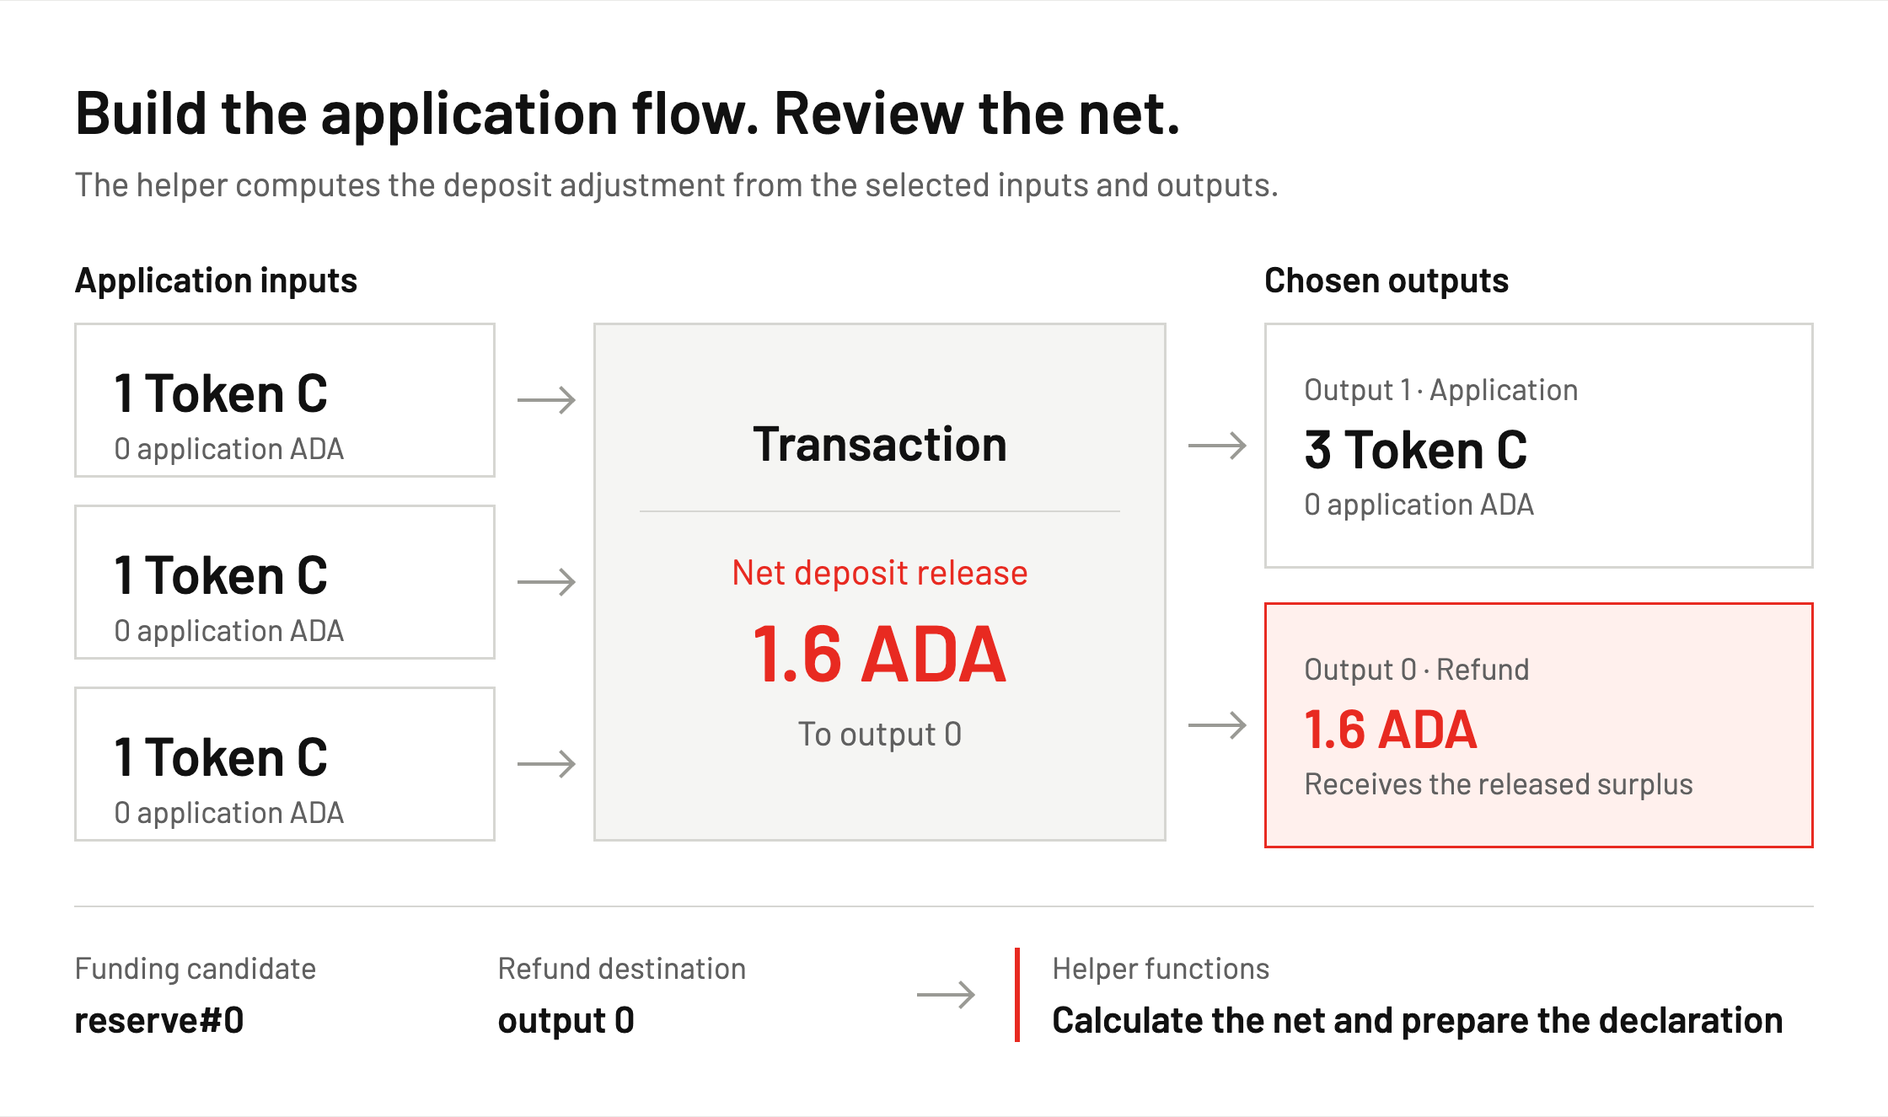
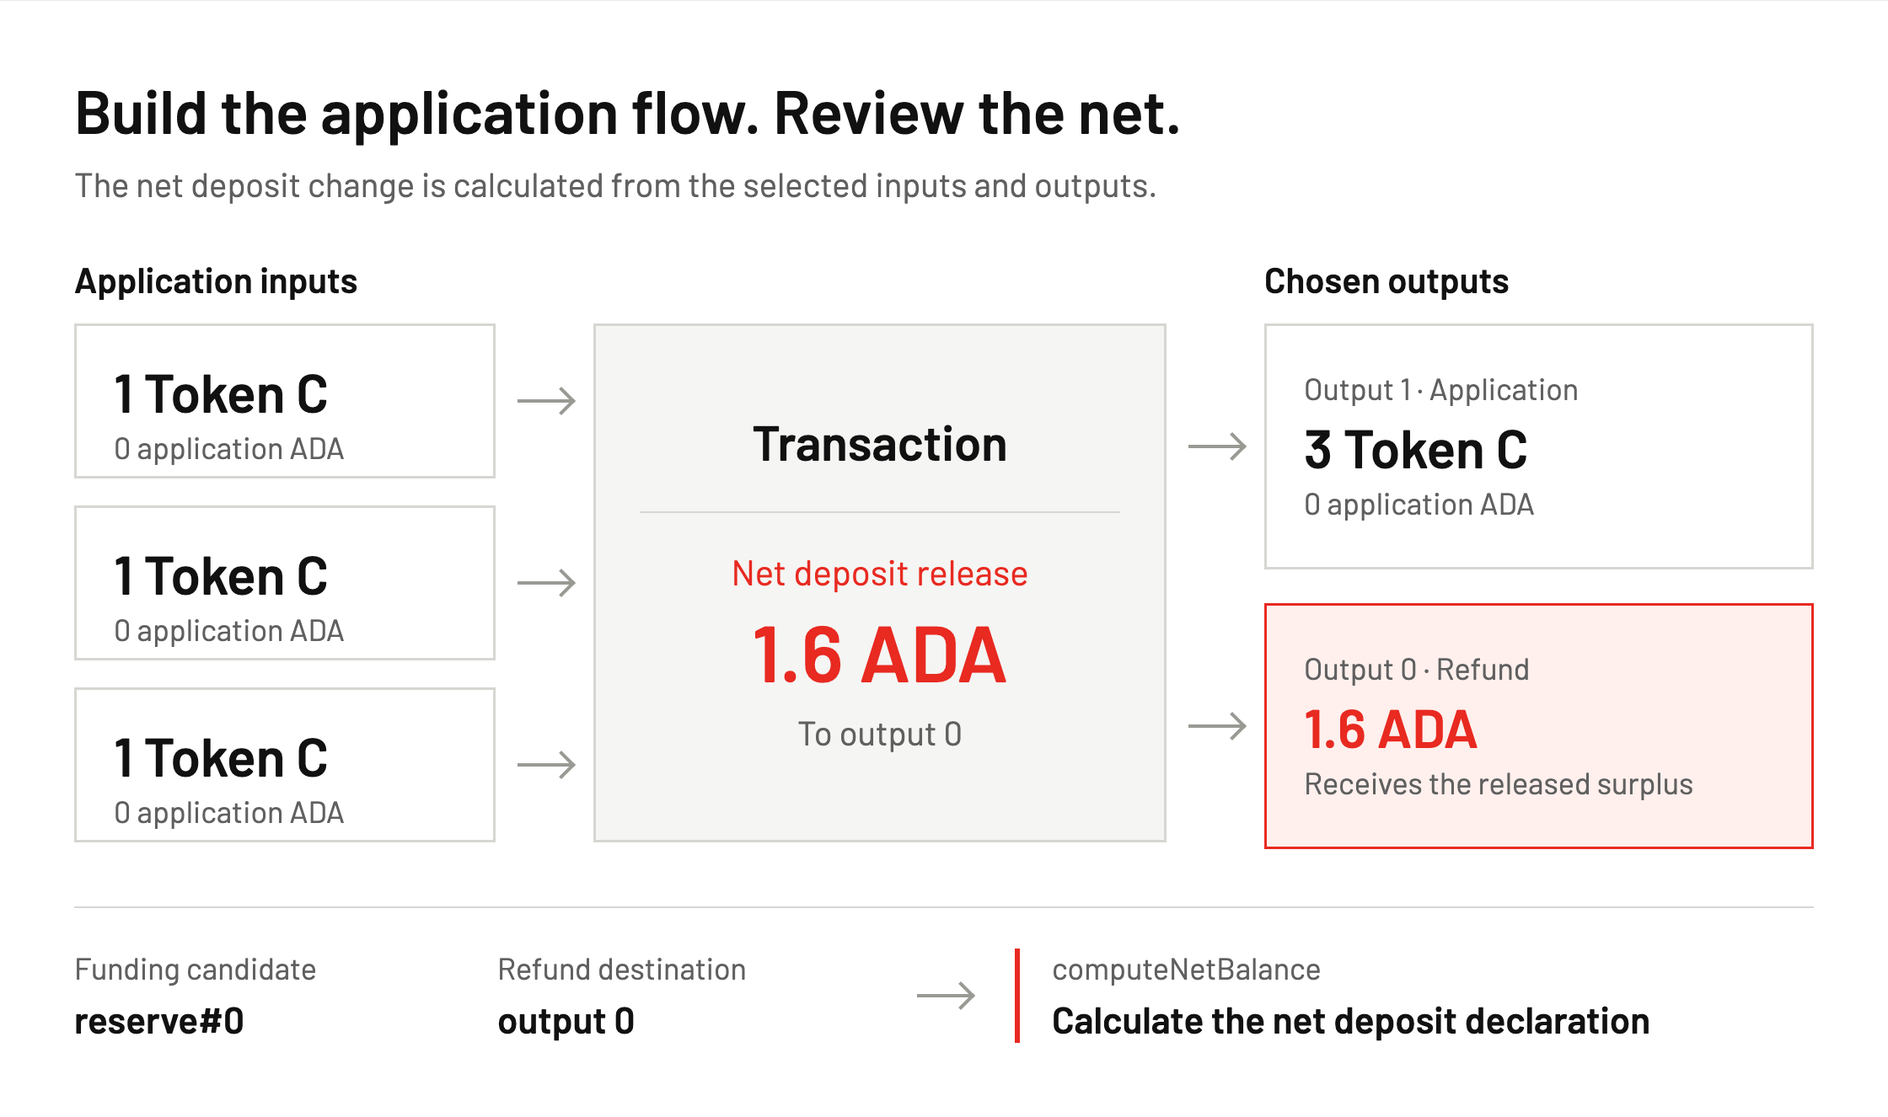
Introduce deposit accounting through banknotes and name construction operations

diff --git a/CIP-????/images/tx-builder-dsl.html b/CIP-????/images/tx-builder-dsl.html
@@ -152,12 +152,12 @@ strong { font-weight: 600; }
 .accounting p { font-size: 18px; color: var(--muted); }
 .accounting strong { display: block; margin-top: 4px; font-size: 30px; }
 .accounting .operator { font-size: 30px; color: #8b8b86; }
-.helper-band { display: grid; grid-template-columns: 1fr 40px 1fr; gap: 22px; align-items: center; margin-top: 34px; padding-top: 24px; border-top: 1px solid var(--line); }
+.calculation-band { display: grid; grid-template-columns: 1fr 40px 1fr; gap: 22px; align-items: center; margin-top: 34px; padding-top: 24px; border-top: 1px solid var(--line); }
 .policy { display: flex; gap: 28px; }
 .policy div { flex: 1; }
-.policy span, .helper-band .helper span { display: block; font-size: 18px; color: var(--muted); margin-bottom: 4px; }
-.policy strong, .helper-band .helper strong { font-size: 22px; font-weight: 600; }
-.helper-band .helper { border-left: 3px solid var(--red); padding-left: 19px; }
+.policy span, .calculation-band .calculation-result span { display: block; font-size: 18px; color: var(--muted); margin-bottom: 4px; }
+.policy strong, .calculation-band .calculation-result strong { font-size: 22px; font-weight: 600; }
+.calculation-band .calculation-result { border-left: 3px solid var(--red); padding-left: 19px; }
 .cases { display: grid; grid-template-columns: repeat(3,1fr); gap: 26px; margin-top: 30px; }
 .case { border-top: 3px solid var(--ink); padding-top: 18px; }
 .case h2 { font-size: 27px; }
@@ -273,11 +273,47 @@ strong { font-weight: 600; }
 .applied-tx .operation strong { font-size:26px; }
 .block-origin { margin-top:25px; border-top:1px solid var(--line); padding-top:20px; font-size:21px; color:var(--muted); }
 .block-origin strong { color:var(--ink); }
+.value-analogy { display:grid; grid-template-columns:1fr 1fr; gap:48px; margin-top:32px; }
+.value-analogy h2 { font-size:26px; margin-bottom:20px; }
+.face-value, .application-value { height:186px; border:1.5px solid var(--line); padding:26px; display:flex; flex-direction:column; justify-content:center; }
+.face-value { outline:1px solid var(--line); outline-offset:-10px; background:var(--paper); }
+.face-value strong { font-size:64px; line-height:1; }
+.face-value span { font-size:22px; color:var(--muted); margin-top:15px; }
+.application-value span { font-size:19px; color:var(--muted); margin-bottom:9px; }
+.application-value strong { font-size:33px; line-height:1.15; }
+.application-value p { font-size:20px; color:var(--muted); margin-top:10px; }
+.backing-connector { height:30px; width:2px; background:var(--line); margin-left:28px; }
+.note-cost, .explicit-deposit { min-height:146px; border-left:3px solid var(--line); background:var(--paper); padding:22px 26px; }
+.note-cost strong, .explicit-deposit strong { font-size:29px; display:block; margin-bottom:9px; }
+.note-cost p, .explicit-deposit p { font-size:21px; line-height:1.35; }
+.note-cost p { color:var(--muted); }
+.explicit-deposit { border-color:var(--red); background:var(--red-soft); }
+.explicit-deposit strong { color:var(--red); }
+.output-commitment { margin-top:24px; border-top:1px solid var(--line); padding-top:17px; font-size:22px; color:var(--muted); }
+.output-commitment strong { color:var(--ink); }
 @media print { body { background:#fff; } .figure { break-after:page; margin:0; } }
 </style>
 </head>
 <body>
 <!-- Render each .figure separately at deviceScaleFactor 2 for the Markdown PNGs. -->
+<section class="figure" id="01-application-value-and-deposit">
+  <h1>Application value and resource backing</h1>
+  <div class="value-analogy">
+    <div>
+      <h2>A banknote</h2>
+      <div class="face-value"><strong>€20</strong><span>Face value · spending power</span></div>
+      <div class="backing-connector"></div>
+      <div class="note-cost"><strong>Production cost</strong><p>Paper, ink and printing</p></div>
+    </div>
+    <div>
+      <h2>A deposit-backed output</h2>
+      <div class="application-value"><span>TxOut.Value</span><strong>1,000 tokens + 20 ADA</strong><p>The application's transfer</p></div>
+      <div class="backing-connector"></div>
+      <div class="explicit-deposit"><strong>32 ADA deposit</strong><p>Held while the output is unspent.<br>Released when the output is spent.</p></div>
+      <p class="output-commitment"><strong>52 ADA</strong> committed for this output, plus the tokens.</p>
+    </div>
+  </div>
+</section>
 <section class="figure with-deposits" id="02-dsl-deposit-view">
   <h1>Deposits associated with the transaction’s outputs</h1>
   <p class="caption">Application assets in the outputs · storage deposits associated by the ledger</p>
@@ -300,7 +336,7 @@ strong { font-weight: 600; }
 
 <section class="figure" id="03-dsl-net-declaration">
   <h1>Build the application flow. Review the net.</h1>
-  <p class="caption">The helper computes the deposit adjustment from the selected inputs and outputs.</p>
+  <p class="caption">The net deposit change is calculated from the selected inputs and outputs.</p>
   <div class="flow">
     <div><h3 class="column-title">Application inputs</h3><div class="output-stack input-stack">
       <div class="token-card"><span class="value">1 Token C</span><span class="application">0 application ADA</span></div>
@@ -315,7 +351,7 @@ strong { font-weight: 600; }
       <div class="token-card refund"><span class="name">Output 0 · Refund</span><span class="value">1.6 ADA</span><span class="application">Receives the released surplus</span></div>
     </div></div>
   </div>
-  <div class="helper-band"><div class="policy"><div><span>Funding candidate</span><strong>reserve#0</strong></div><div><span>Refund destination</span><strong>output 0</strong></div></div><i class="arrow"></i><div class="helper"><span>Helper functions</span><strong>Calculate the net and prepare the declaration</strong></div></div>
+  <div class="calculation-band"><div class="policy"><div><span>Funding candidate</span><strong>reserve#0</strong></div><div><span>Refund destination</span><strong>output 0</strong></div></div><i class="arrow"></i><div class="calculation-result"><span>computeNetBalance</span><strong>Calculate the net deposit declaration</strong></div></div>
 </section>
 
 <section class="figure" id="04-dsl-funding-refund">
@@ -347,10 +383,10 @@ strong { font-weight: 600; }
 </section>
 <section class="figure" id="07-dsl-ledger-interface">
   <h1>From construction choices to the signed transaction</h1>
-  <p class="caption">The helper prepares the inputs, outputs and deposit declaration that the ledger receives.</p>
+  <p class="caption">updateTxBodyWithNetBalance returns the prepared body with its deposit declaration.</p>
   <div class="interface">
     <div class="interface-panel"><h2>Above the ledger</h2><div class="field"><span>Application flow</span><strong>3 token inputs → 1 token output</strong></div><div class="field"><span>Funding candidate</span><strong>reserve#0</strong></div><div class="field"><span>Supplied refund output</span><strong>output 0 · 1.6 ADA</strong></div><div class="field"><span>Calculated deposit change</span><strong class="red">Release 1.6 ADA</strong></div></div>
-    <div class="interface-arrow"><span>Helper</span><i class="arrow"></i></div>
+    <div class="interface-arrow"><span>Prepare<br>TxBody</span><i class="arrow"></i></div>
     <div class="interface-panel signed"><h2>TxBody</h2><div class="field"><span>Ordinary inputs</span><strong>3 application input references</strong></div><div class="field"><span>Ordinary outputs</span><p><strong>output 0</strong> &nbsp; 1.6 ADA</p><p><strong>output 1</strong> &nbsp; 3 Token C</p></div><div class="field"><span>Net deposit declaration</span><strong class="red">Release 1,600,000 lovelace</strong><p>Settlement index &nbsp; <strong>0</strong></p></div></div>
   </div>
 </section>

diff --git a/CIP-????/README.md b/CIP-????/README.md
@@ -202,21 +202,36 @@ each original deposit when its output is spent, including after pricing changes.
 
 ## 3. Specification
 
-The transaction-building DSL combines an application flow with funding and refund
-choices. Helpers prepare a transaction body that expresses those choices through
-inputs, outputs and deposit declarations. The ledger validates the declarations
-and applies the resulting changes to the live UTxO set.
+Consider a **20-euro banknote**. Its face value gives the holder 20 euros of
+spending power. Producing the banknote also requires paper, ink and printing.
+The value used for a payment and the cost of its physical representation have
+different meanings.
 
-The proposal extends the Dijkstra model of an enclosing transaction (`TopTx`)
-and its sub-transactions (`SubTxs`). A standalone transaction is a TopTx with no
-SubTxs. The complete batch consists of TopTx and its SubTx bodies, each counted
-once. Activation requires an era transition and compatible node, transaction
-construction and script-context interfaces.
+![A banknote distinguishes face value from production cost, and a deposit-backed output distinguishes application value from resource backing](images/01-application-value-and-deposit.png)
 
-Amounts use lovelace, and the pricing rate uses lovelace per byte. Calculations
-use exact integer arithmetic. A positive net deposit change allocates ADA, a
-negative change releases ADA, and an explicit zero records a balanced deposit
-contribution.
+A **deposit-backed output** gives application value and resource backing their
+own accounting. In this example, the application transfers **1,000 tokens and
+20 ADA**. An illustrative **32 ADA deposit** backs the output's place in the live
+UTxO set, giving **52 ADA committed for this output**, alongside the tokens. The
+deposit stays associated with the output while it is unspent. Spending the output
+releases that deposit through the transaction balance.
+
+With the current **minimum-ADA form**, the same ADA can serve both as payment and
+resource backing. For the same intended transfer and minimum, the output carries
+32 ADA and the tokens. The extra 12 ADA needed to meet the minimum is included
+in that value. A deposit-backed output records the intended 20 ADA payment and
+accounts for the full 32 ADA deposit separately. The transaction builder chooses
+the form of each new output.
+
+There is also a choice in how assets are grouped. **20 coins of 1 euro** can be
+exchanged for **1 banknote of 20 euros**. The spending power stays the same while
+the number of physical objects changes. Similarly, combining assets into fewer
+outputs or distributing them across several outputs changes the resources
+occupied in the live UTxO set and the deposits required.
+
+The transaction builder can express those application transfers and review their
+combined resource effect as a **net deposit change**. Funding and refund choices
+then determine how the transaction handles that difference.
 
 <a id="31-moving-minutxo-accounting-from-txouts-to-transactions"></a>
 <a id="31-transaction-builder-experience"></a>
@@ -226,8 +241,9 @@ contribution.
 The construction interface lets a transaction builder describe the **application
 flow** and supply a **funding and refund policy**. The builder selects the
 application inputs, chooses the new outputs and identifies a reserve input for
-top-ups and an output for refunds. Helper functions derive the net deposit change
-and prepare the transaction body from those choices.
+top-ups and an output for refunds. In the reference API, `computeNetBalance`
+derives the deposit declaration from those choices. `updateTxBodyWithNetBalance` returns a transaction
+body containing the selected input/output additions and that declaration.
 
 The following example uses an illustrative **1.6 ADA deposit per deposit-backed
 output**. The token inputs and outputs carry zero application ADA.
@@ -236,8 +252,8 @@ output**. The token inputs and outputs carry zero application ADA.
 
 In this example, the application consolidates 3 token inputs into 1 token output.
 Its policy names `reserve#0` as a funding candidate and output 0 as the refund
-destination. The helper finds a **1.6 ADA net release**. The builder can review
-that amount and adjust the application flow before completing the transaction.
+destination. The calculation yields a **1.6 ADA net release**. The builder can
+review that amount and adjust the application flow before completing the transaction.
 
 The 3 inputs and 2 outputs depicted here all use the deposit-backed form, with
 an illustrative deposit of 1.6 ADA each. The calculation includes the deposit
@@ -275,8 +291,8 @@ explicitly separate. These examples account for the selected output's funding.
 
 #### 3.1.2 Computing and reviewing the net
 
-The helper recovers the historical external deposits of the selected inputs and
-calculates the requirements for new deposit-backed outputs. Their difference is
+The net calculation recovers the historical external deposits of the selected
+inputs and calculates the requirements for new deposit-backed outputs. Their difference is
 the adjustment the complete transaction must fund or receive.
 
 ```math
@@ -302,8 +318,8 @@ change outputs use the same form and also contribute zero external-deposit chang
 
 The net makes the resource effect of splitting, consolidating or changing output
 contents visible. The transaction builder can compare alternative flows and
-choose an acceptable result. A helper repeats the calculation whenever a change
-affects the deposits involved.
+choose an acceptable result. The transaction builder repeats the calculation
+whenever a change affects the deposits involved.
 
 For the opening example, historical releases total 4.8 ADA and new requirements
 total 3.2 ADA, including the deposit-backed refund output. The resulting 1.6 ADA
@@ -314,21 +330,21 @@ release is available for that output's application value.
 An application can reuse a reserve policy across its workflows. The reference
 construction API supports the following choices.
 
-| Policy choice | Helper behavior |
+| Policy choice | Transaction-body update |
 | --- | --- |
 | Funding already included | Calculate using the selected ordinary inputs |
 | Funding candidate | Add the specified input when the body's attributed allocation requires funding |
 | Existing refund output | Select an output already present in the body |
 | New refund output | Append the supplied output when a refund is required and its own deposit leaves a positive release |
 
-The helper includes every added input and output in its final calculation.
+The final calculation includes every selected input and output addition.
 Adding a funding input may itself release a historical deposit. A new
 minimum-ADA refund output uses its own ADA for backing. A new deposit-backed
 refund output also requires an external deposit.
 
 `computeNetBalance` calculates the resulting deposit declaration.
 `updateTxBodyWithNetBalance` applies the selected input/output additions and
-writes the declaration into the body. The helper retains the refund output's
+writes the declaration into the body. The refund output is inserted with its
 supplied value. The transaction builder sets that value and completes ordinary
 asset, change and fee balancing before signing.
 
@@ -338,12 +354,17 @@ Individual deposit allocations are recorded when the ledger applies the transact
 
 ### 3.2 SubTx composition and delegation
 
+The proposal extends the Dijkstra model of an enclosing transaction (`TopTx`)
+and its sub-transactions (`SubTxs`). A standalone transaction is a TopTx with no
+SubTxs. The complete batch consists of TopTx and its SubTx bodies, each counted
+once.
+
 #### 3.2.1 Local accounting or delegation to TopTx
 
 A SubTx author can use the same construction flow and provide a local funding
 and refund policy. The additional choice is to **delegate deposit accounting to
-TopTx**. The SubTx helper calculates the body's own net change and applies the
-chosen policy.
+TopTx**. `computeSubTxNetBalance` calculates the body's own net change and returns
+a declaration expressing the chosen local or delegated accounting policy.
 
 ![A SubTx handles its net locally or delegates its allocation or release to TopTx](images/05-dsl-subtx-delegation.png)
 
@@ -357,9 +378,9 @@ TopTx already coordinates transaction fees. With this proposal it can also
 coordinate deposit top-ups and refunds. A SubTx can therefore express a token
 operation with zero application ADA in its inputs and outputs.
 
-Prepare each SubTx before its enclosing TopTx. The SubTx helpers calculate their
-own contributions. The TopTx helper then calculates the complete batch change
-and its attributed share, using the prepared SubTx declarations. Changing a
+Prepare each SubTx with `updateSubTxBodyWithNetBalance` before preparing its
+enclosing TopTx. `computeNetBalance` then calculates the complete batch change
+and TopTx's attributed share, using the prepared SubTx declarations. Changing a
 SubTx's inputs, outputs or accounting choice requires recalculating the enclosing
 transaction.
 
@@ -373,7 +394,7 @@ release and allocation to TopTx.
 ![A SubTx release funds another SubTx allocation and the batch has zero net change](images/06-dsl-batch-netting.png)
 
 All depicted SubTx inputs and outputs have zero application ADA. Their deposit
-changes cancel, so the TopTx helper prepares **explicit zero** for the batch.
+changes cancel, so `computeNetBalance` returns **explicit zero** for the batch.
 TopTx funds fees through minimum-ADA inputs and change outputs, which contribute
 zero external-deposit change. Delegation lets the enclosing transaction
 coordinate resource funding across the application flows.
@@ -398,9 +419,10 @@ deposit-backed outputs.
 | Create Carol's one-asset output | $`4310 \times (193 + 57 + 74)`$ | 1,396,440 allocated |
 | Net SubTx contribution | $`2{,}792{,}880 - 1{,}715{,}380`$ | 1,077,500 allocated |
 
-Alice chooses delegation. The SubTx helper prepares a request for TopTx to
-account for the **1,077,500 lovelace allocation**. Assume TopTx's other inputs
-and outputs use the minimum-ADA form and contribute zero external-deposit change.
+Alice chooses delegation. `updateSubTxBodyWithNetBalance` writes a declaration
+requesting that TopTx account for the **1,077,500 lovelace allocation**. Assume
+TopTx's other inputs and outputs use the minimum-ADA form and contribute zero
+external-deposit change.
 TopTx's net is that same positive amount, and its available ADA funds the deposit
 and fee. The complete transaction also conserves both native assets.
 
@@ -414,6 +436,12 @@ its external-deposit release is zero.
 <a id="33-txbody-declarations-and-encoding"></a>
 
 ### 3.3 Ledger interface and TxBody declarations
+
+Amounts use lovelace, and the pricing rate uses lovelace per byte. Calculations
+use exact integer arithmetic. A positive net deposit change allocates ADA, a
+negative change releases ADA, and an explicit zero records a balanced deposit
+contribution. Activation requires an era transition and compatible node,
+transaction-construction and script-context interfaces.
 
 The construction choices above become ordinary spending inputs, ordinary outputs
 and a deposit declaration in the signed transaction body. The reserve policy is
@@ -1332,8 +1360,8 @@ of the validation and compatibility contract.
 The Haskell Ledger implementation in PR #3 provides executable rules for output
 forms, declarations, net accounting, authority, settlement, collateral,
 historical deposits and state transitions. Its transaction-construction API
-provides funding and settlement strategies and body-update helpers. Implementation
-references and excerpts in this CIP use revision
+provides funding and settlement strategies and transaction-body update functions.
+Implementation references and excerpts in this CIP use revision
 `1c22597b03e950e14d86e1d5ad86284ee5d7c1f3`, including the `MinAdaTxOut` and
 `DepositBackedTxOut` names. Excerpts omit surrounding code where indicated.
 The prototype uses the earlier fixed-base pricing formula. Adapting it to
@@ -1391,17 +1419,18 @@ updateSubTxBodyWithNetBalance ::
 ```
 
 `computeNetBalance` and `computeSubTxNetBalance` take the corresponding inputs and
-return the declaration payload. Both calculation and update helpers include any
-input or output additions selected by the strategy. Update helpers also apply
-those additions to the body.
+return the declaration payload. Their calculations include any input or output
+additions selected by the strategy. `updateTxBodyWithNetBalance` and
+`updateSubTxBodyWithNetBalance` also apply those additions and write the declaration
+into the returned body.
 
-Prepare each SubTx before TopTx. The TopTx helper combines its own calculated
+Prepare each SubTx before TopTx. `computeNetBalance` combines TopTx's calculated
 contribution with the prepared SubTx declarations. Ledger validation independently
 recalculates every contribution from the actual inputs, outputs and history.
 
-The helpers retain the ADA values supplied for refund outputs. Their own deposits
-enter the calculation. Adding a TopTx refund output must leave both the batch and
-TopTx's attributed share in release. Adding a SubTx refund output must leave that
+Refund outputs are inserted with the ADA values supplied by the transaction
+builder. Their own deposits enter the calculation. Adding a TopTx refund output
+must leave both the batch and TopTx's attributed share in release. Adding a SubTx refund output must leave that
 SubTx's own contribution in release. Rebalancing a body that already contains the
 refund uses the existing-output strategy.
 
